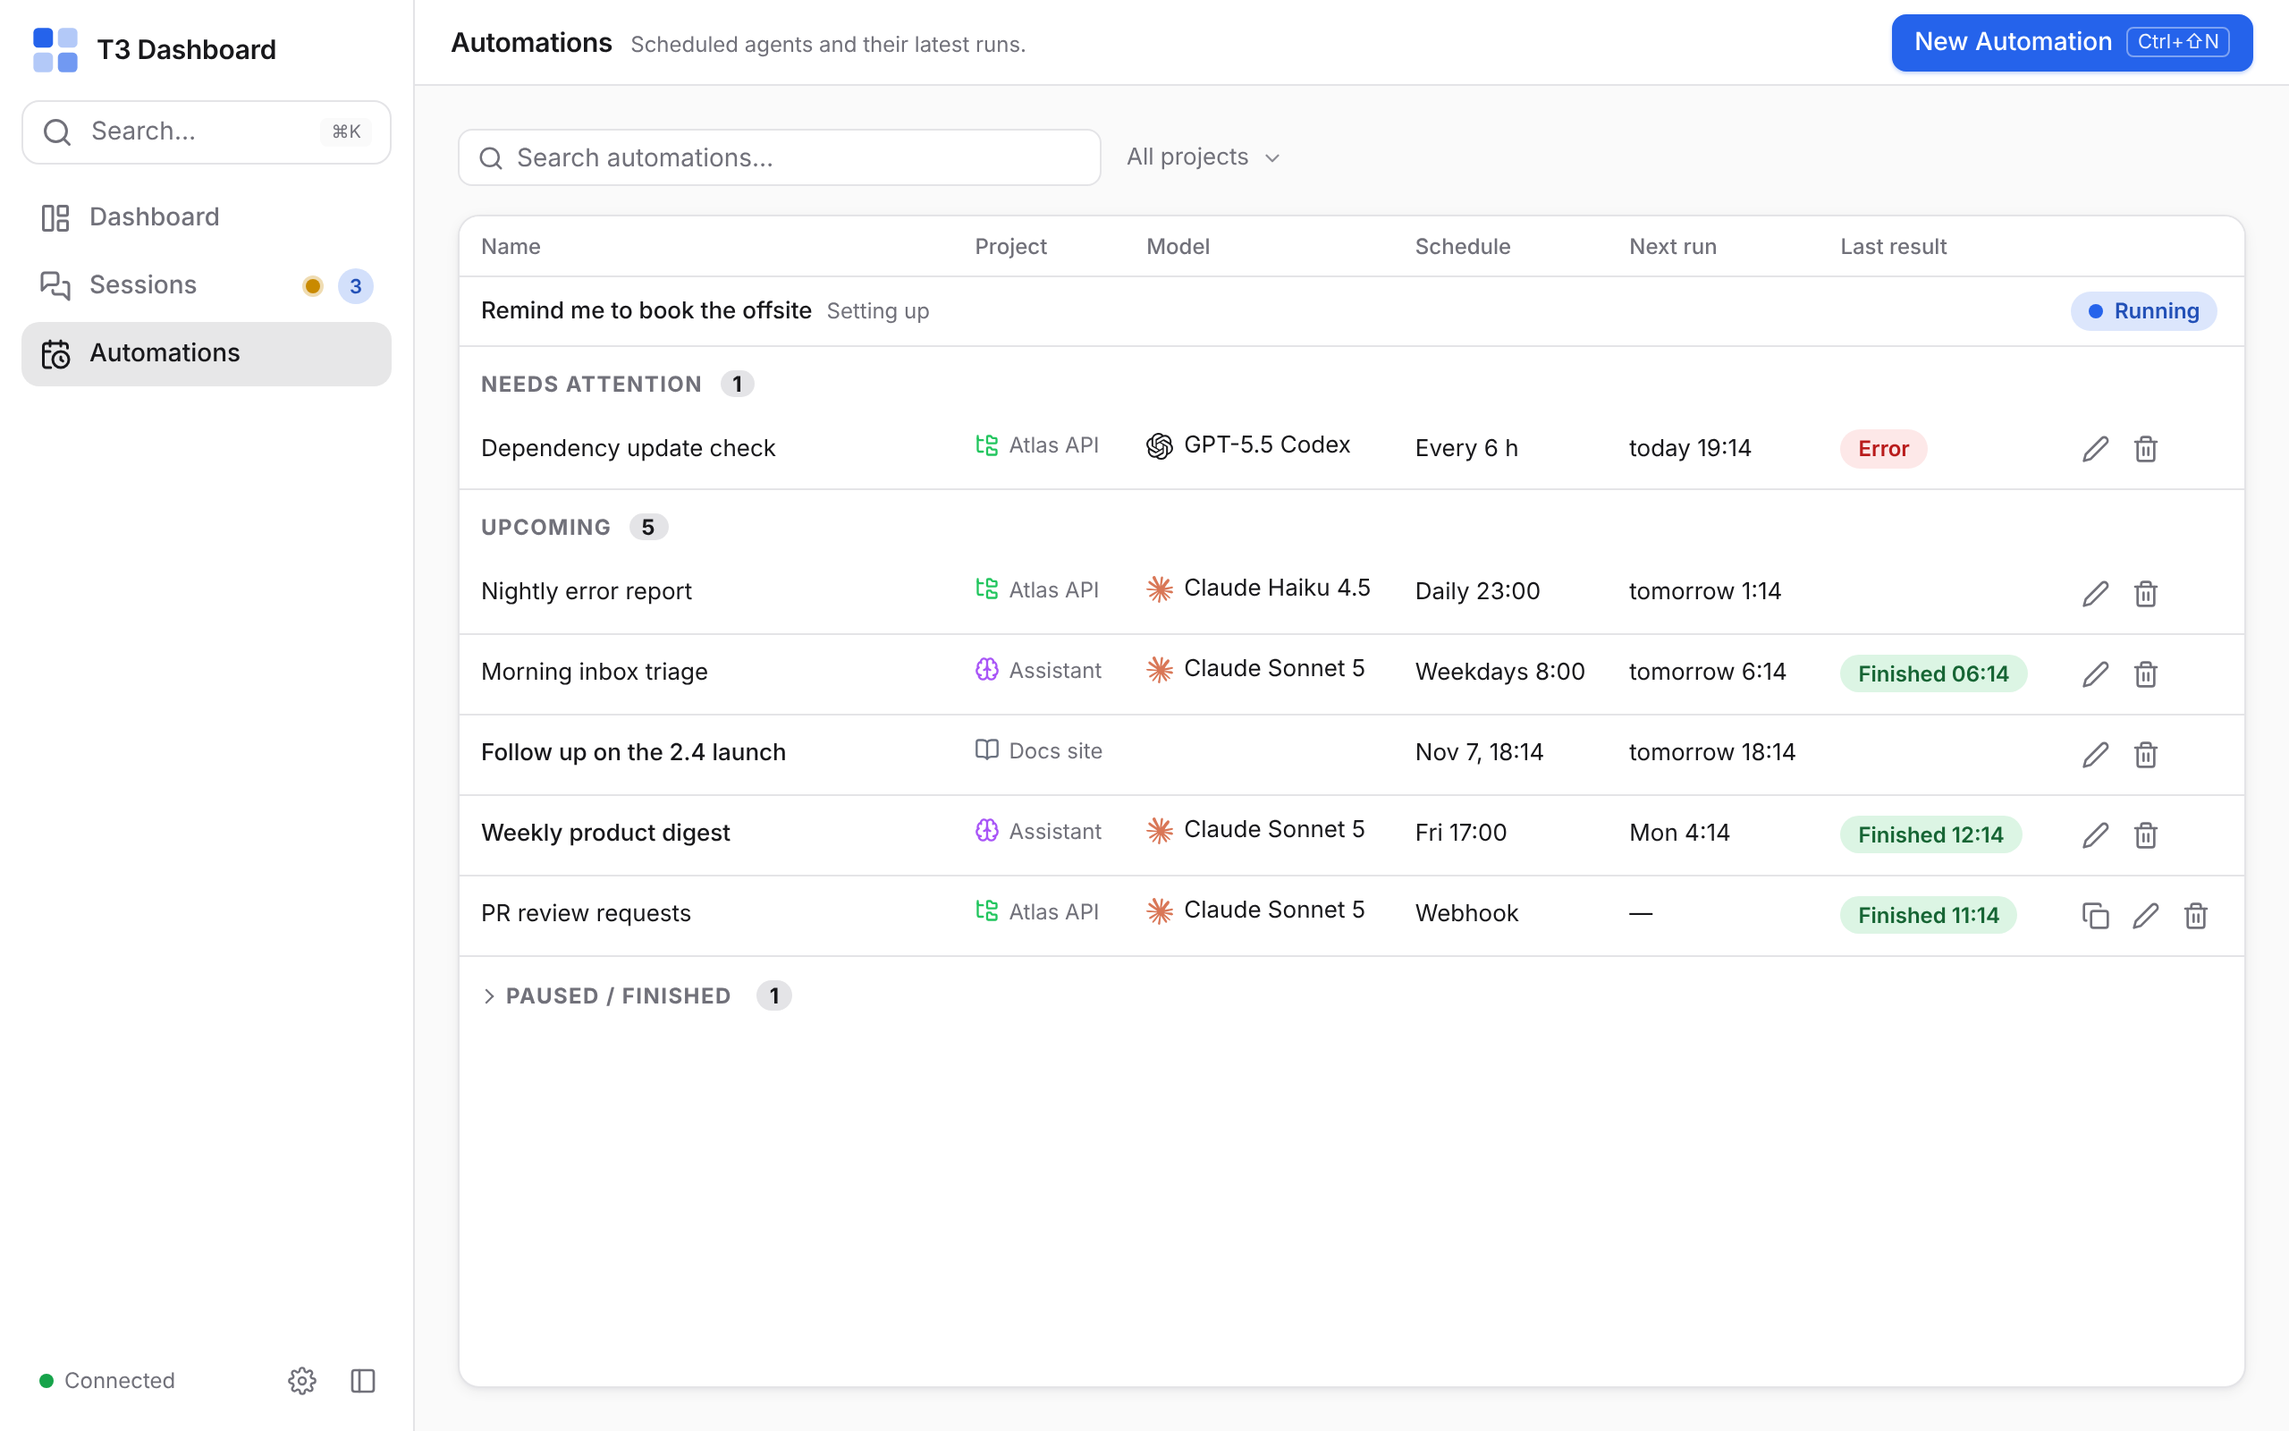
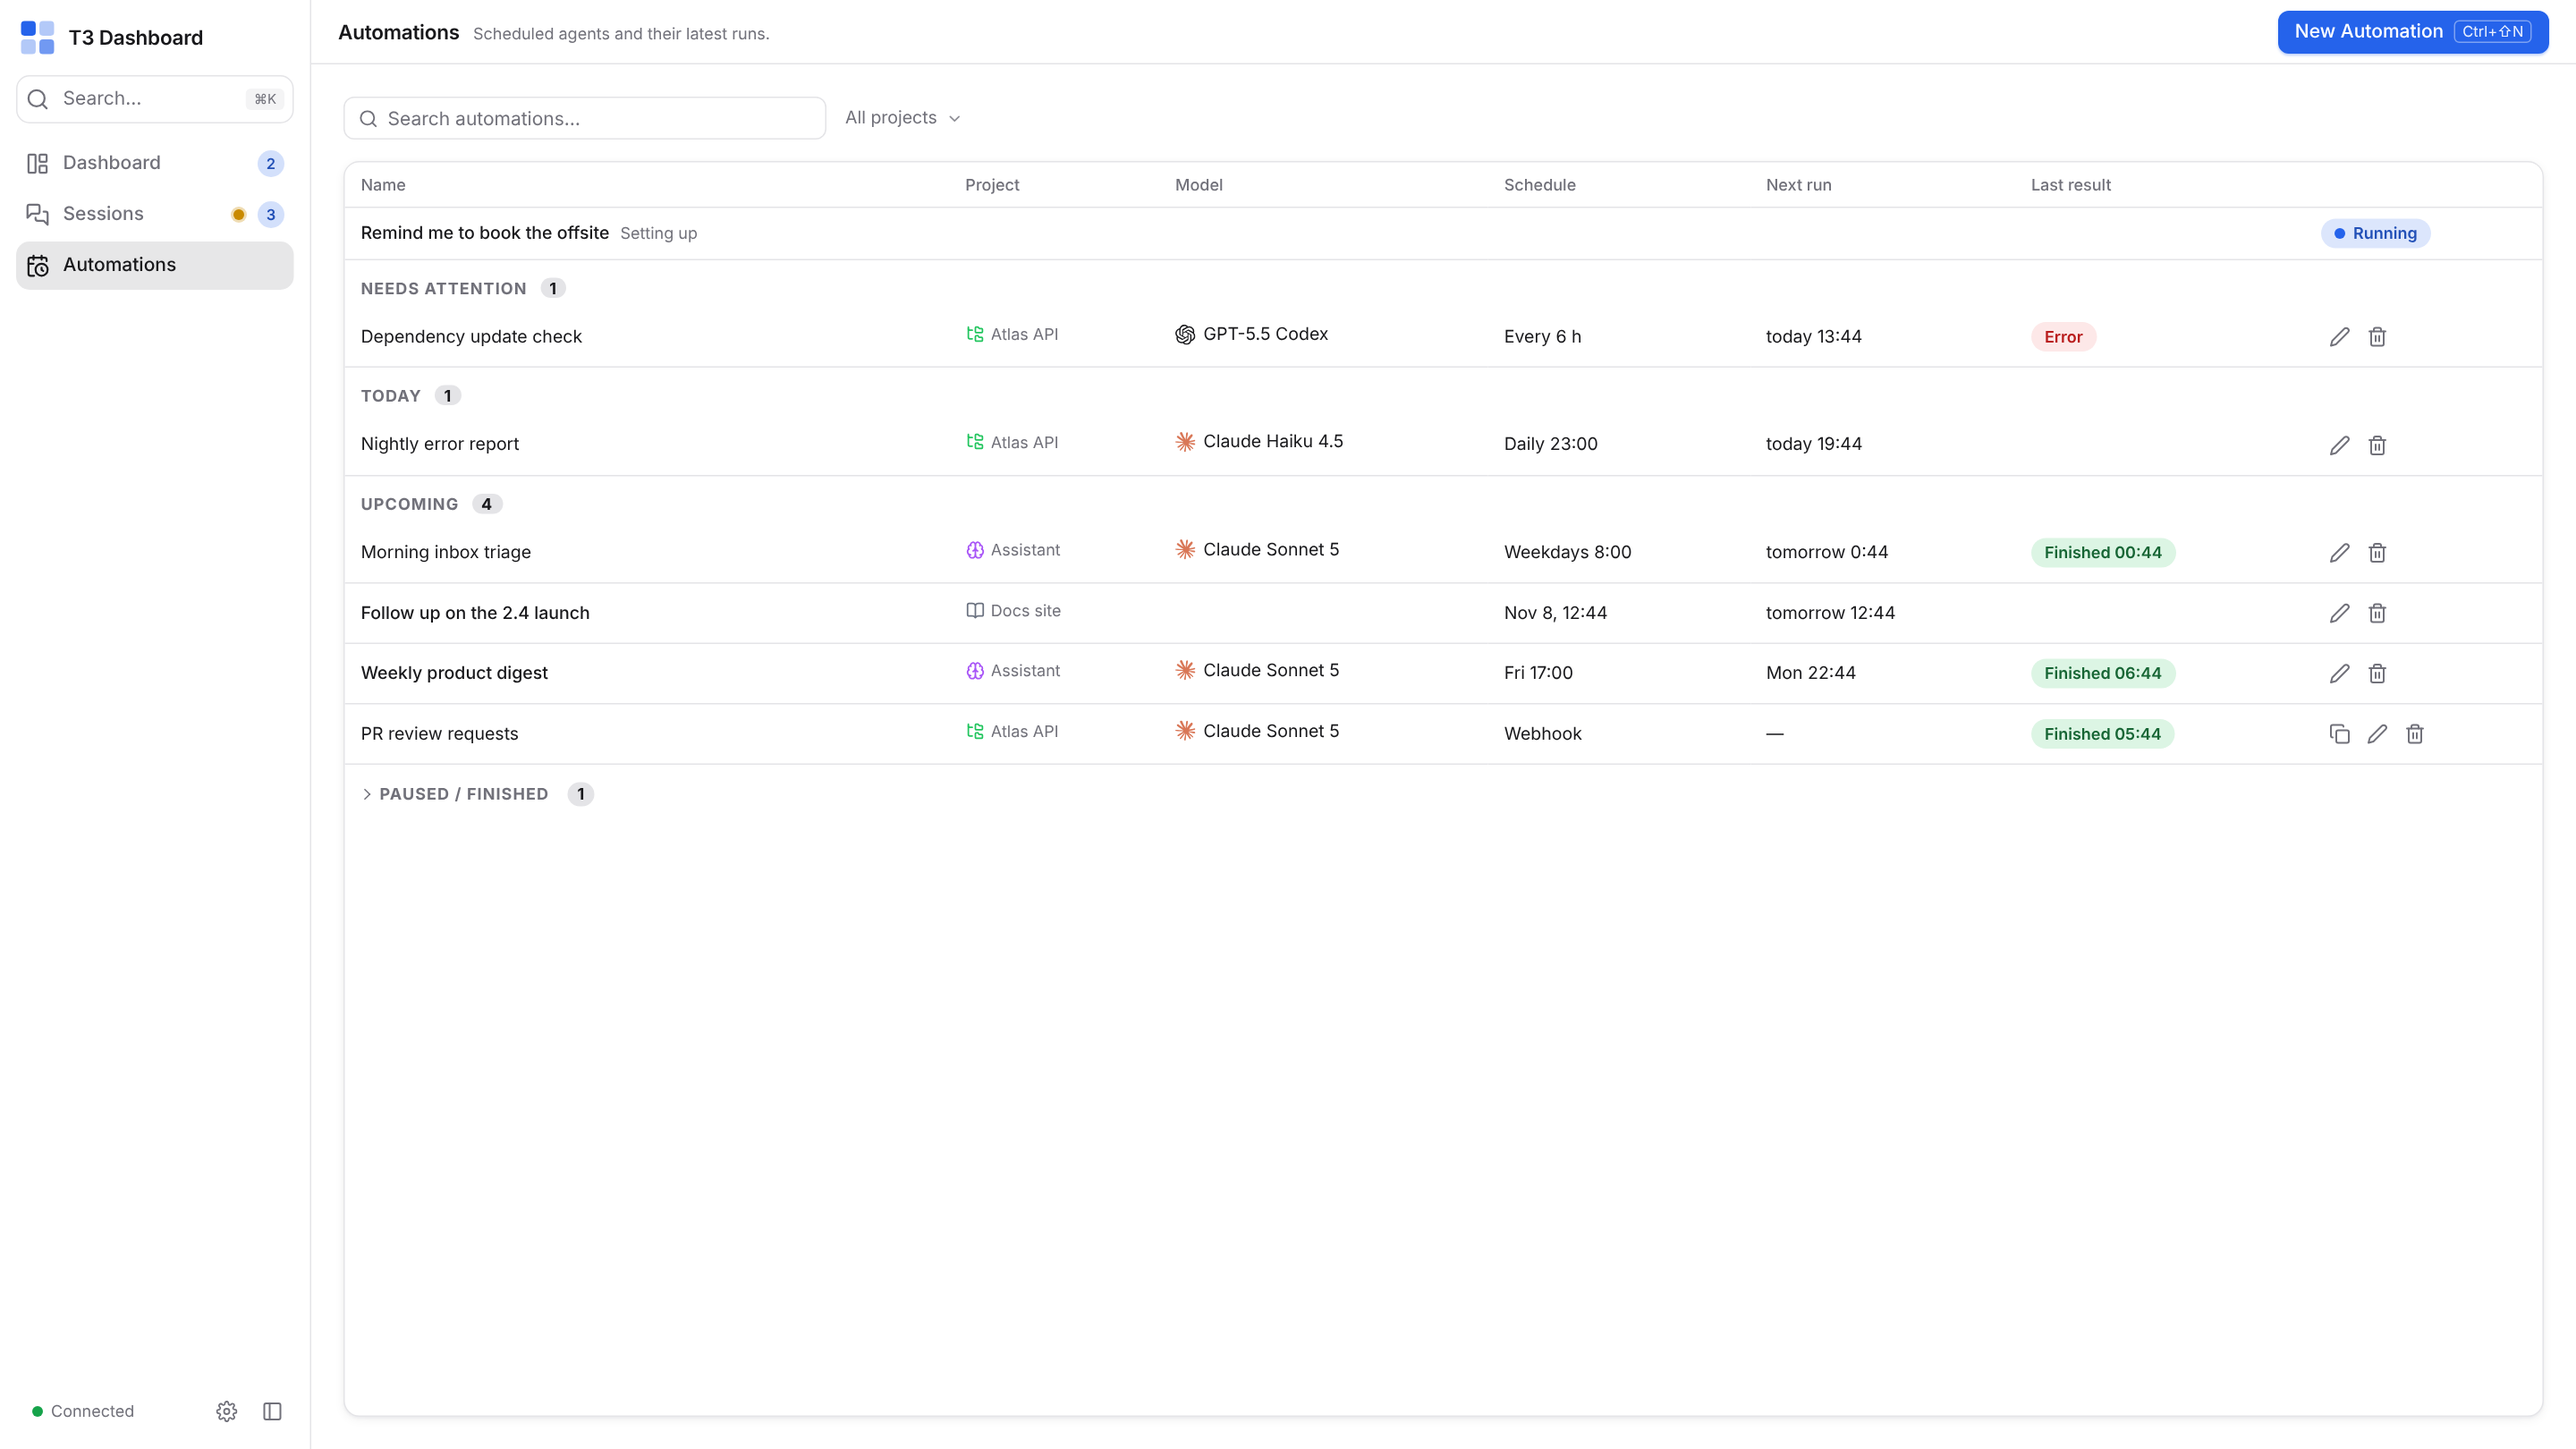
style: white page background in the light theme; new wide README screenshots
The light theme page, lists and panels are white again; the light gray
stays for hover and active states. The README screenshots are taken on
a 1920x1080 screen (Dashboard 1920x1500) with many open sessions, and
the New Session screenshot is gone.

diff --git a/web/src/styles.css b/web/src/styles.css
@@ -1,10 +1,11 @@
 /* Light theme and very dark zinc theme; data-theme is set on <html> before first paint, and data-accent picks the accent color. */
 :root, :root[data-theme="light"] {
   color-scheme: light;
-  --surface-0: #f1f1f3;
-  --surface-1: #f9f9fa;
-  --header-bg: #f9f9fa;
-  --line: #dcdce0;
+  --page-bg: #ffffff;
+  --surface-0: #f4f4f5;
+  --surface-1: #ffffff;
+  --header-bg: #ffffff;
+  --line: #e4e4e7;
   --text-primary: #18181b;
   --text-secondary: #71717a;
   --accent: #2563eb;
@@ -23,6 +24,7 @@
 }
 :root[data-theme="dark"] {
   color-scheme: dark;
+  --page-bg: #09090b;
   --surface-0: #09090b;
   --surface-1: #121214;
   --header-bg: #0c0c0e;
@@ -77,7 +79,7 @@
 * { box-sizing: border-box; }
 /* iOS paints a grey box on every pressed control; the app shows its own pressed states. */
 html { -webkit-tap-highlight-color: transparent; }
-body { margin: 0; font: 14px/1.45 Inter, ui-sans-serif, system-ui, -apple-system, "Segoe UI", sans-serif; background: var(--surface-0); color: var(--text-primary); -webkit-font-smoothing: antialiased; }
+body { margin: 0; font: 14px/1.45 Inter, ui-sans-serif, system-ui, -apple-system, "Segoe UI", sans-serif; background: var(--page-bg); color: var(--text-primary); -webkit-font-smoothing: antialiased; }
 ::selection { background: color-mix(in srgb, var(--accent) 28%, transparent); }
 /* Never the browser blue: every focusable element gets the accent ring. */
 :focus-visible { outline: var(--focus-ring); outline-offset: 2px; }
@@ -693,7 +695,7 @@ ol.install-steps { padding-left: 18px; }
 @keyframes sidebar-foot-row { from, to { flex-direction: row; align-items: center; } }
 /* Bottom bar: the sidebar on a phone. */
 /* No grey square and no callout on a long press: the active pill already shows the tab. */
-.bottom-nav { position: fixed; z-index: 20; inset: auto 0 0; display: flex; height: calc(var(--bottom-bar) + env(safe-area-inset-bottom)); padding: 0 env(safe-area-inset-right) env(safe-area-inset-bottom) env(safe-area-inset-left); background: var(--surface-0); border-top: 1px solid var(--line); -webkit-touch-callout: none; user-select: none; }
+.bottom-nav { position: fixed; z-index: 20; inset: auto 0 0; display: flex; height: calc(var(--bottom-bar) + env(safe-area-inset-bottom)); padding: 0 env(safe-area-inset-right) env(safe-area-inset-bottom) env(safe-area-inset-left); background: var(--page-bg); border-top: 1px solid var(--line); -webkit-touch-callout: none; user-select: none; }
 .bottom-item { flex: 1; min-width: 0; min-height: 44px; display: flex; flex-direction: column; align-items: center; justify-content: center; gap: 2px; padding: 0; border: 0; border-radius: 0; background: none; color: var(--text-secondary); font-size: 12px; font-weight: 500; }
 .bottom-item.active { color: var(--accent); }
 .bottom-icon { position: relative; display: grid; place-items: center; width: 56px; height: 30px; border-radius: 15px; }
@@ -728,7 +730,7 @@ ol.install-steps { padding-left: 18px; }
 @media (max-width: 1200px) {
   .dashboard-backdrop { position: fixed; z-index: 14; inset: var(--header-h, 0px) 0 0; background: color-mix(in srgb, var(--surface-0) 40%, #000 60%); opacity: 0; visibility: hidden; transition: opacity 200ms cubic-bezier(0.2, 0, 0, 1), visibility 0s 200ms; }
   .dashboard-backdrop.open { opacity: 0.5; visibility: visible; transition-delay: 0s; }
-  .dashboard-panel { position: fixed; z-index: 15; top: var(--header-h, 0px); right: 0; bottom: 0; width: min(380px, 100vw); display: flex; flex-direction: column; background: var(--surface-0); box-shadow: -8px 0 24px color-mix(in srgb, #000 28%, transparent); transform: translateX(100%); visibility: hidden; transition: transform 200ms cubic-bezier(0.2, 0, 0, 1), visibility 0s 200ms; }
+  .dashboard-panel { position: fixed; z-index: 15; top: var(--header-h, 0px); right: 0; bottom: 0; width: min(380px, 100vw); display: flex; flex-direction: column; background: var(--page-bg); box-shadow: -8px 0 24px color-mix(in srgb, #000 28%, transparent); transform: translateX(100%); visibility: hidden; transition: transform 200ms cubic-bezier(0.2, 0, 0, 1), visibility 0s 200ms; }
   .dashboard-panel.open { transform: none; visibility: visible; transition-delay: 0s; }
   .dashboard-panel:focus { outline: none; }
   .dashboard-panel .notifications-card { flex: 1; min-height: 0; max-height: none; border-radius: 0; border-width: 0 0 0 1px; }
@@ -800,7 +802,7 @@ ol.install-steps { padding-left: 18px; }
 .dashboard-note { margin: 0; padding: 20px; color: var(--text-secondary); }
 .dashboard-note.error { color: var(--err-text); }
 .sr-only { position: absolute; width: 1px; height: 1px; overflow: hidden; clip-path: inset(50%); white-space: nowrap; }
-.sessions { flex: 1; min-height: 0; display: flex; background: var(--surface-0); }
+.sessions { flex: 1; min-height: 0; display: flex; background: var(--page-bg); }
 .sessions.compact { flex-direction: column; }
 .sessions-area { position: relative; flex: 1; min-width: 0; min-height: 0; display: flex; flex-direction: column; }
 /* Phone: position dots shown for a moment after a swipe between sessions. */
@@ -813,8 +815,8 @@ ol.install-steps { padding-left: 18px; }
 .sessions-cell { display: flex; min-width: 0; min-height: 0; border-right: 1px solid var(--line); }
 .sessions-cell.has-below { border-bottom: 1px solid var(--line); }
 .sessions-empty { flex: 1; align-self: flex-start; margin: 24px; }
-.sessions-placeholder { flex: 1; min-height: 0; background: var(--surface-0); }
-.session-window { position: relative; flex: 1; min-width: 0; min-height: 0; display: flex; flex-direction: column; overflow: hidden; background: var(--surface-0); }
+.sessions-placeholder { flex: 1; min-height: 0; background: var(--page-bg); }
+.session-window { position: relative; flex: 1; min-width: 0; min-height: 0; display: flex; flex-direction: column; overflow: hidden; background: var(--page-bg); }
 .session-window.maximized { position: absolute; inset: 0; z-index: 3; }
 .session-window-head { display: flex; flex-direction: column; gap: 2px; min-width: 0; padding: 6px 6px 6px 8px; border-bottom: 1px solid var(--line); background: var(--surface-1); }
 .session-window-row { display: flex; align-items: center; gap: 6px; min-width: 0; }
@@ -845,7 +847,7 @@ ol.install-steps { padding-left: 18px; }
 /* Same slide as the app sidebar: the slot narrows, the list keeps its width inside. */
 .slist-slot { flex: none; display: flex; width: 280px; min-height: 0; overflow: hidden; transition: width 160ms ease; }
 .slist-slot.hidden { width: 0; }
-.slist { flex: none; width: 280px; min-height: 0; display: flex; flex-direction: column; border-right: 1px solid var(--line); background: var(--surface-0); }
+.slist { flex: none; width: 280px; min-height: 0; display: flex; flex-direction: column; border-right: 1px solid var(--line); background: var(--page-bg); }
 .slist-body { flex: 1; min-height: 0; overflow-y: auto; padding: 6px; }
 .slist-project { display: flex; align-items: center; border-radius: var(--radius-md); }
 @media (hover: hover) { .slist-project:hover { background: color-mix(in srgb, var(--text-primary) 5%, transparent); } }

diff --git a/README.md b/README.md
@@ -4,17 +4,21 @@ t3-dashboard is a web dashboard on top of T3 Code. It shows all your Claude and 
 
 ## Screenshots
 
-| Dashboard | Sessions |
-| --- | --- |
-| <picture><source media="(prefers-color-scheme: dark)" srcset="docs/screenshots/dashboard-dark.png"><img alt="Dashboard" src="docs/screenshots/dashboard.png"></picture> | <picture><source media="(prefers-color-scheme: dark)" srcset="docs/screenshots/sessions-dark.png"><img alt="Sessions" src="docs/screenshots/sessions.png"></picture> |
+**Dashboard**
 
-| Automations | New Session |
-| --- | --- |
-| <picture><source media="(prefers-color-scheme: dark)" srcset="docs/screenshots/automations-dark.png"><img alt="Automations" src="docs/screenshots/automations.png"></picture> | <picture><source media="(prefers-color-scheme: dark)" srcset="docs/screenshots/new-session-dark.png"><img alt="New Session" src="docs/screenshots/new-session.png"></picture> |
+<picture><source media="(prefers-color-scheme: dark)" srcset="docs/screenshots/dashboard-dark.png"><img alt="Dashboard" src="docs/screenshots/dashboard.png"></picture>
 
-| Jump to a conversation |
-| --- |
-| <picture><source media="(prefers-color-scheme: dark)" srcset="docs/screenshots/search-dark.png"><img alt="Jump to" src="docs/screenshots/search.png"></picture> |
+**Sessions**: many conversations open side by side
+
+<picture><source media="(prefers-color-scheme: dark)" srcset="docs/screenshots/sessions-dark.png"><img alt="Sessions" src="docs/screenshots/sessions.png"></picture>
+
+**Automations**
+
+<picture><source media="(prefers-color-scheme: dark)" srcset="docs/screenshots/automations-dark.png"><img alt="Automations" src="docs/screenshots/automations.png"></picture>
+
+**Jump to a conversation**
+
+<picture><source media="(prefers-color-scheme: dark)" srcset="docs/screenshots/search-dark.png"><img alt="Jump to" src="docs/screenshots/search.png"></picture>
 
 The screenshots come from the demo mode: the projects, agents and conversations are invented. GitHub shows the light or dark variant to match your color scheme.
 

diff --git a/docs/development.md b/docs/development.md
@@ -22,7 +22,7 @@ bun run build   # single binary in dist/t3-dashboard
 
 ## Demo mode
 
-`bun run demo` starts the dashboard with made-up data: projects, agents, conversations, Linear tickets and routines. It does not contact T3 Code or Linear. The screenshots in `docs/screenshots/` come from this mode. Start it again to make new screenshots after a change to the interface. Each screenshot has a light file (`dashboard.png`) and a dark file (`dashboard-dark.png`), at 1280x800 with a device scale of 2.
+`bun run demo` starts the dashboard with made-up data: projects, agents, conversations, Linear tickets and routines. It does not contact T3 Code or Linear. The screenshots in `docs/screenshots/` come from this mode. Start it again to make new screenshots after a change to the interface. Each screenshot has a light file (`dashboard.png`) and a dark file (`dashboard-dark.png`), on a 1920x1080 screen with a device scale of 1.5 (the Dashboard one is 1920x1500, to show every card).
 
 ## Publish a release
 
